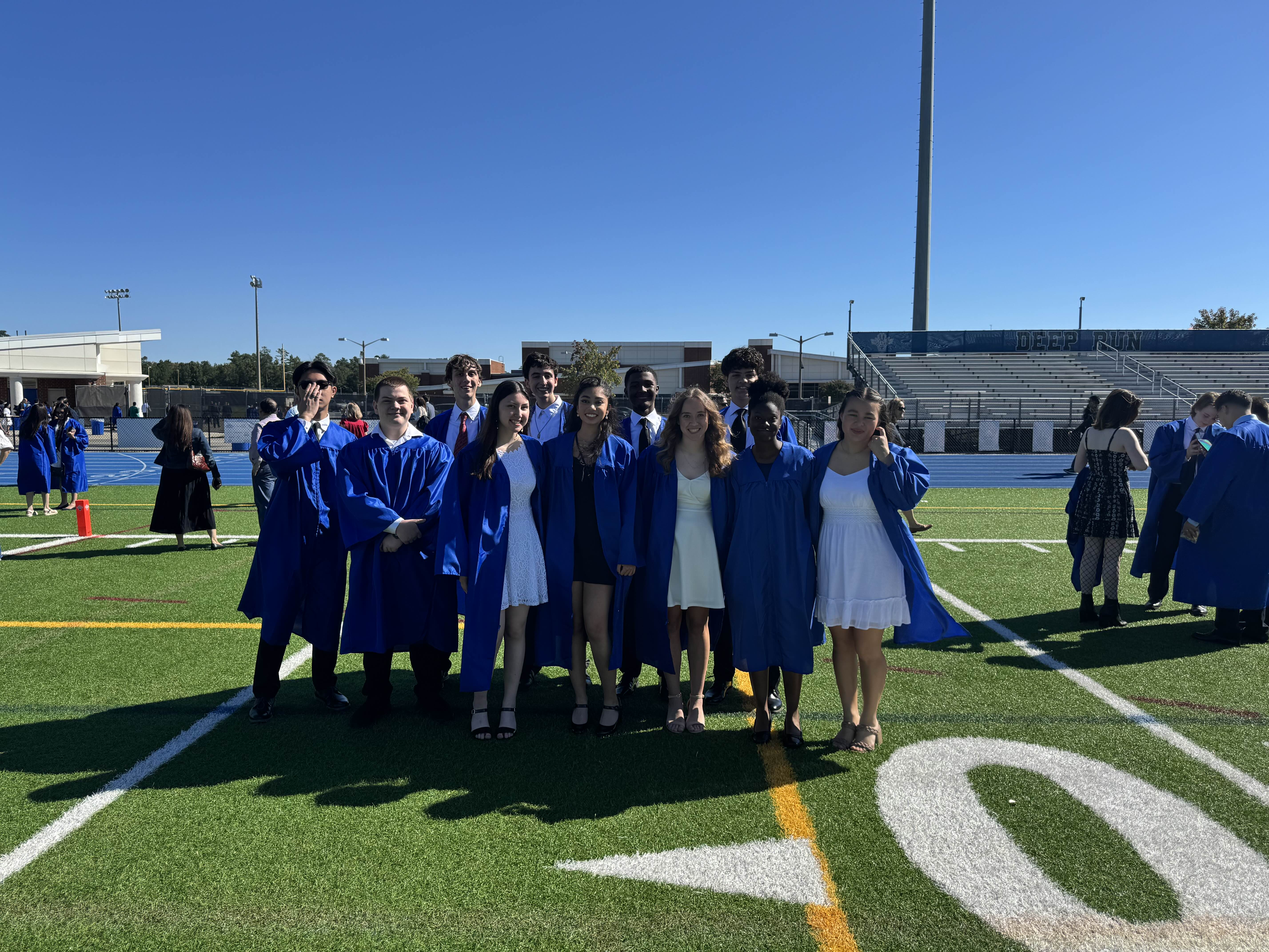
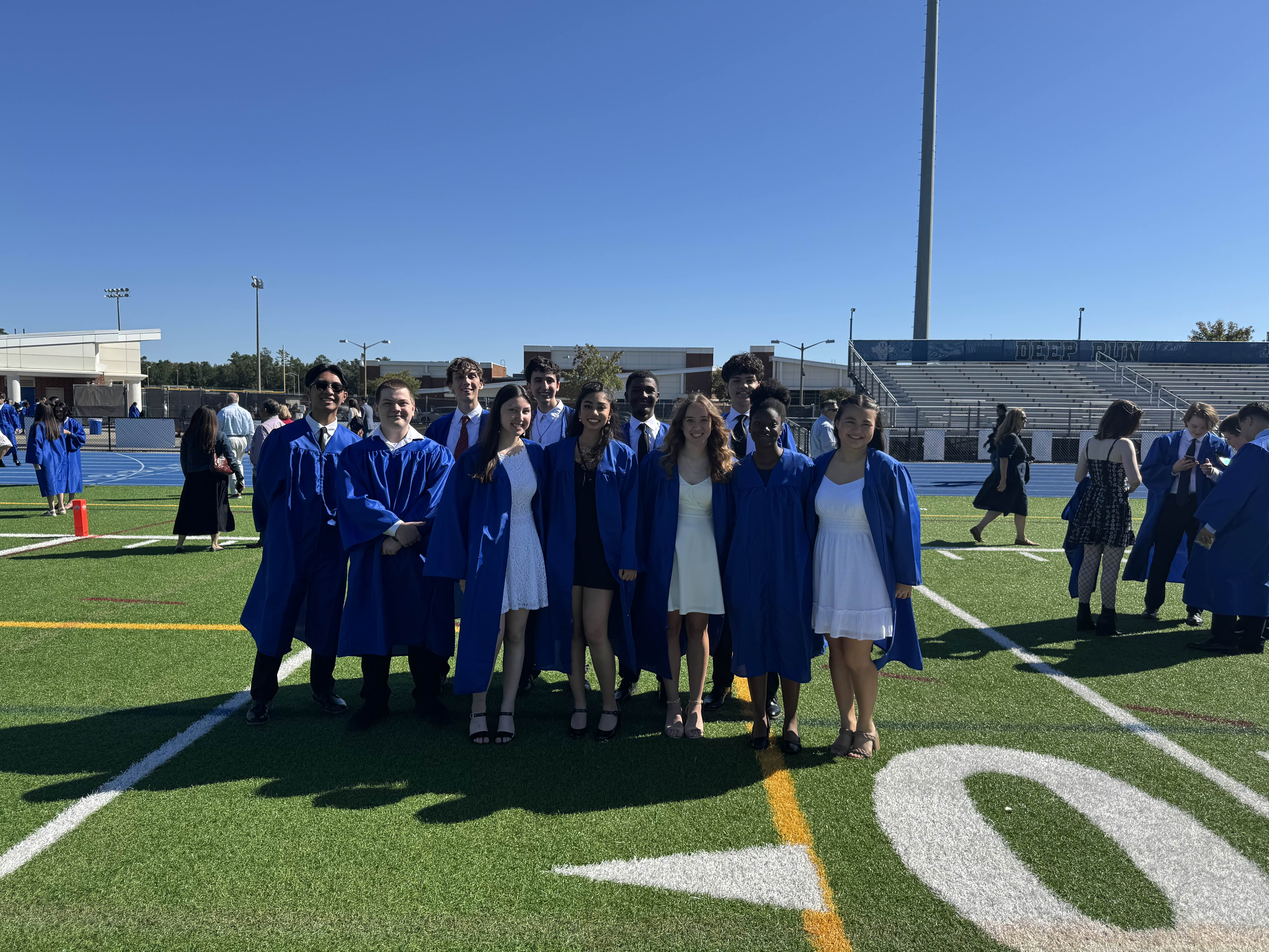
Fixing some typos and replacing a picture.

diff --git a/bucketlist/q1/collegeappsdone.html b/bucketlist/q1/collegeappsdone.html
@@ -24,7 +24,7 @@
                 10/17/2024
             </h2>
             <p>
-                Since Sophomore year, I have been thinking about what college I want to go to.  I knew I wanted to study either Computer Science in college, but I didn't have any ideas as to what a good college would be for those programs.  I eventually made a list of about 14 colleges that I would visit and learn more about to see if they interested me.  By the time the summer of 2024 was coming to an end, I decided to shorten the list to my top 5 colleges, and apply to those.  These colleges were Christopher Newport, Randolph Macon, Old Dominion, Liberty, and George Mason.  In August, I applied to the Early Action form for Randolph Macon, and didn't finish the rest of the applications until October 17th.  In a few months, I should start hearing back from these colleges to see whether or not I got accepted.
+                Since Sophomore year, I have been thinking about what college I want to go to.  I knew I wanted to study either computer science or cybersecurity, but I didn't have any idea as to what a good college look like for those programs.  I eventually made a list of about 14 colleges that I would visit and learn more about to see if they interested me.  By the end of the summer of 2024, I had managed to shorten the list to only my top 5 colleges, and I applied to those.  These colleges were Christopher Newport, Randolph Macon, Old Dominion, Liberty, and George Mason.  In August, I applied to the Early Action form for Randolph Macon, and didn't finish the rest of the applications until October 17th.  In a few months, I should start hearing back from these colleges to see whether or not I got accepted.
             </p>
         </div>
     </body>
